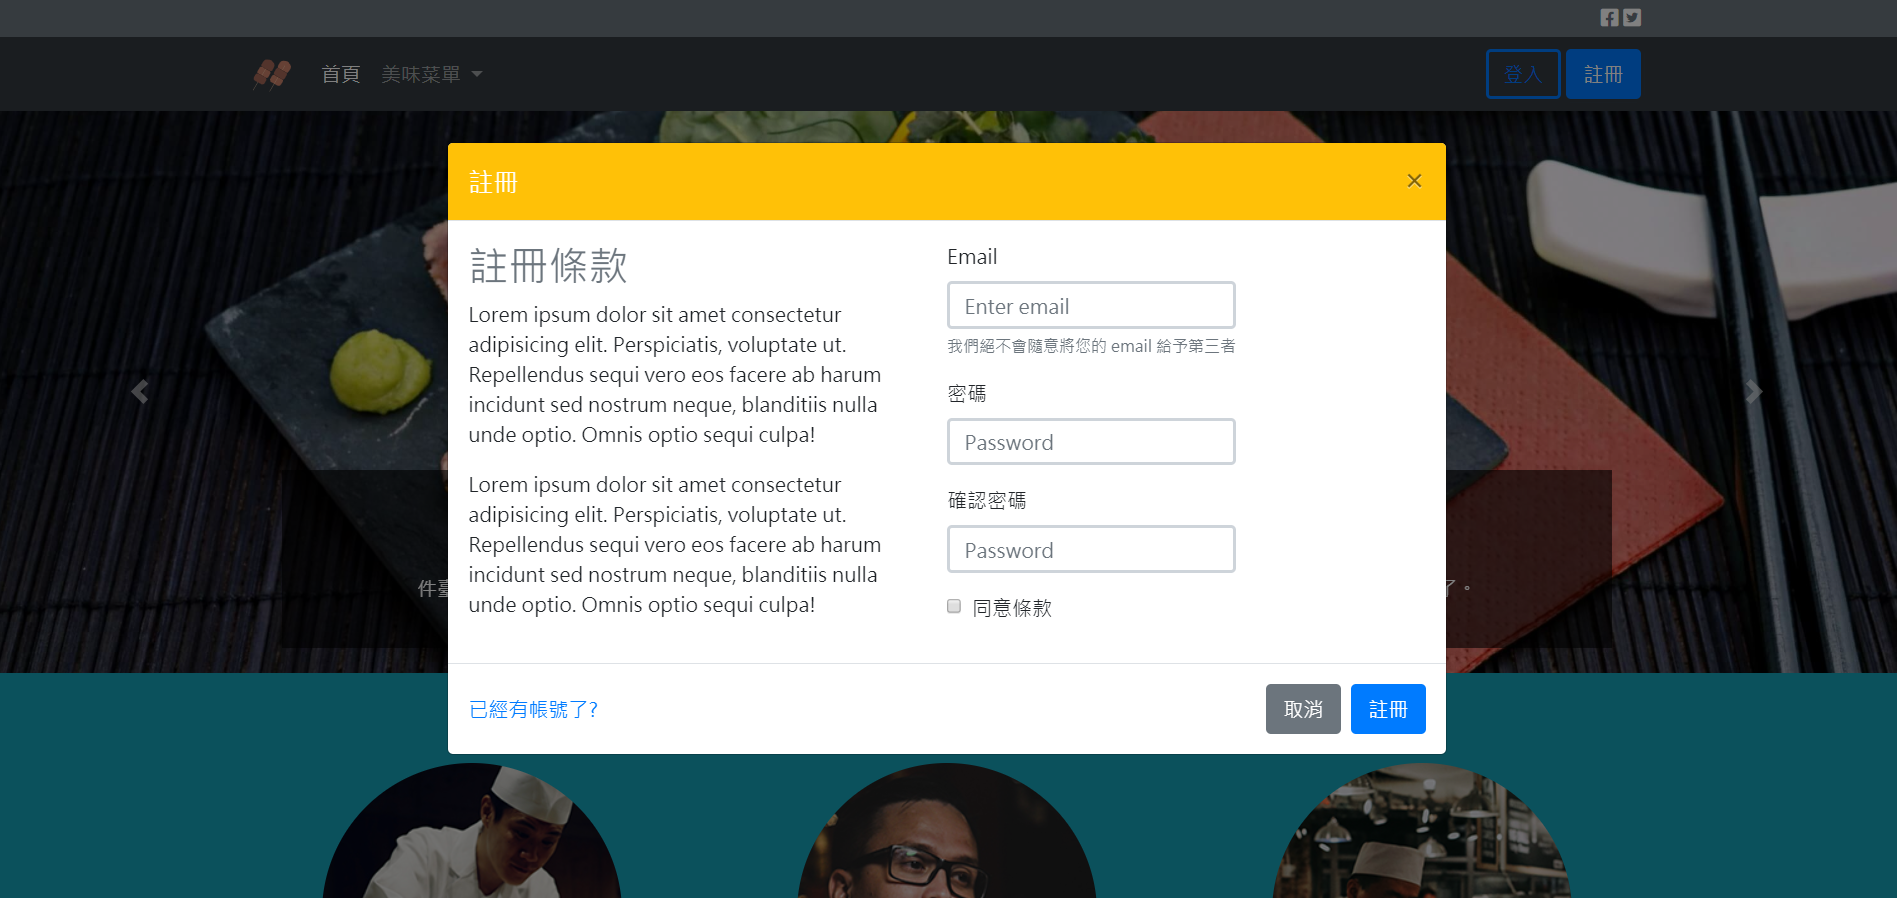
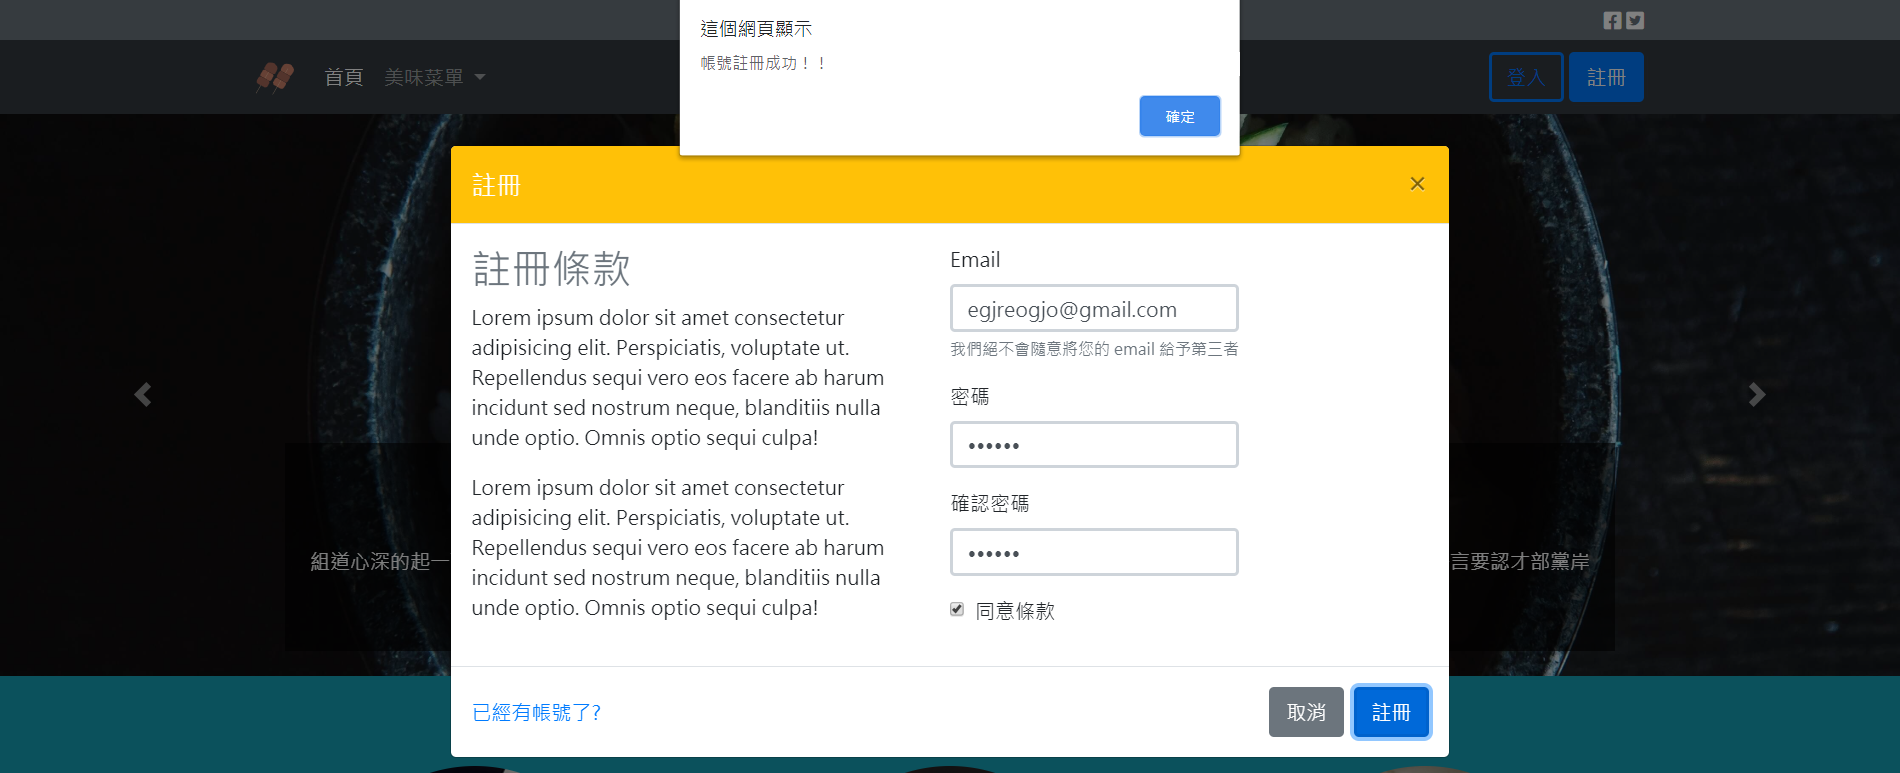
0307更新

diff --git a/index.html b/index.html
@@ -405,18 +405,18 @@
                             <form>
                                 <div class="form-group">
                                     <label for="exampleInputEmail1">Email</label>
-                                    <input type="email" class="form-control" id="exampleInputEmail1"
+                                    <input type="email" class="form-control account" id="exampleInputEmail1"
                                         placeholder="Enter email" aria-describedby="emailHelp">
                                     <small id="emailHelp" class="form-text text-muted">我們絕不會隨意將您的 email 給予第三者</small>
                                 </div>
                                 <div class="form-group">
                                     <label for="exampleInputPassword1">密碼</label>
-                                    <input type="password" class="form-control" id="exampleInputPassword1"
+                                    <input type="password" class="form-control password" id="exampleInputPassword1"
                                         placeholder="Password">
                                 </div>
                                 <div class="form-group">
                                     <label for="exampleInputPassword1">確認密碼</label>
-                                    <input type="password" class="form-control" id="exampleInputPassword1"
+                                    <input type="password" class="form-control passwordVeri" id="exampleInputPassword1"
                                         placeholder="Password">
                                 </div>
                                 <div class="form-group form-check">
@@ -431,7 +431,7 @@
                     <a href="#" class="mr-auto" data-dismiss="modal" data-toggle="modal"
                         data-target="#loginModalCenter">已經有帳號了?</a>
                     <button type="button" class="btn btn-secondary" data-dismiss="modal">取消</button>
-                    <button type="button" class="btn btn-primary">註冊</button>
+                    <button type="button" class="btn btn-primary send">註冊</button>
                 </div>
             </div>
         </div>
@@ -449,21 +449,7 @@
         integrity="sha384-wfSDF2E50Y2D1uUdj0O3uMBJnjuUD4Ih7YwaYd1iqfktj0Uod8GCExl3Og8ifwB6"
         crossorigin="anonymous"></script>
 
-    <!-- 修正行動版 RegisterModal 切換後滾動問題 -->
-    <script>
-        $(document).ready(function () {
-            console.log('ready');
-            $('a[data-dismiss="modal"][data-toggle="modal"]').on('click', function () {
-                console.log('click');
-                var target = $(this).data('target');
-                console.log('target', target);
-                $(target).on('shown.bs.modal', function () {
-                    $('body').addClass('modal-open');
-                });
-            });
-        })
-    </script>
-
+    <script src="js/all.js"></script>
 </body>
 
 </html>

diff --git a/js/all.js b/js/all.js
@@ -1,0 +1,47 @@
+// 註冊驗證
+var send = document.querySelector('.send');
+
+send.addEventListener('click',signup,false);
+
+function signup(){
+    var emailStr = document.querySelector('.account').value;
+    var passwordStr = document.querySelector('.password').value;
+    var passwordVeriStr = document.querySelector('.passwordVeri').value;
+
+    if(passwordStr != passwordVeriStr){
+        alert('確認密碼欄需與密碼相同！');
+    }else{
+        var account = {};
+    account.email = emailStr;
+    account.password = passwordStr;
+    
+    var xhr = new XMLHttpRequest();
+    xhr.open('post','https://hexschool-tutorial.herokuapp.com/api/signup',true);
+    xhr.setRequestHeader('Content-type','application/json');
+    var data = JSON.stringify(account);
+    xhr.send(data);
+    xhr.onload = function(){
+        var callbackData = JSON.parse(xhr.responseText);
+        console.log(callbackData);
+        var veriStr =  callbackData.message;
+        if(veriStr =="帳號註冊成功"){
+            alert('帳號註冊成功！！');
+        }else{
+            alert("帳號註冊失敗！");
+        }
+    }
+    }   
+}
+
+// 修正行動版 RegisterModal 切換後滾動問題
+$(document).ready(function () {
+    console.log('ready');
+    $('a[data-dismiss="modal"][data-toggle="modal"]').on('click', function () {
+        console.log('click');
+        var target = $(this).data('target');
+        console.log('target', target);
+        $(target).on('shown.bs.modal', function () {
+            $('body').addClass('modal-open');
+        });
+    });
+})
